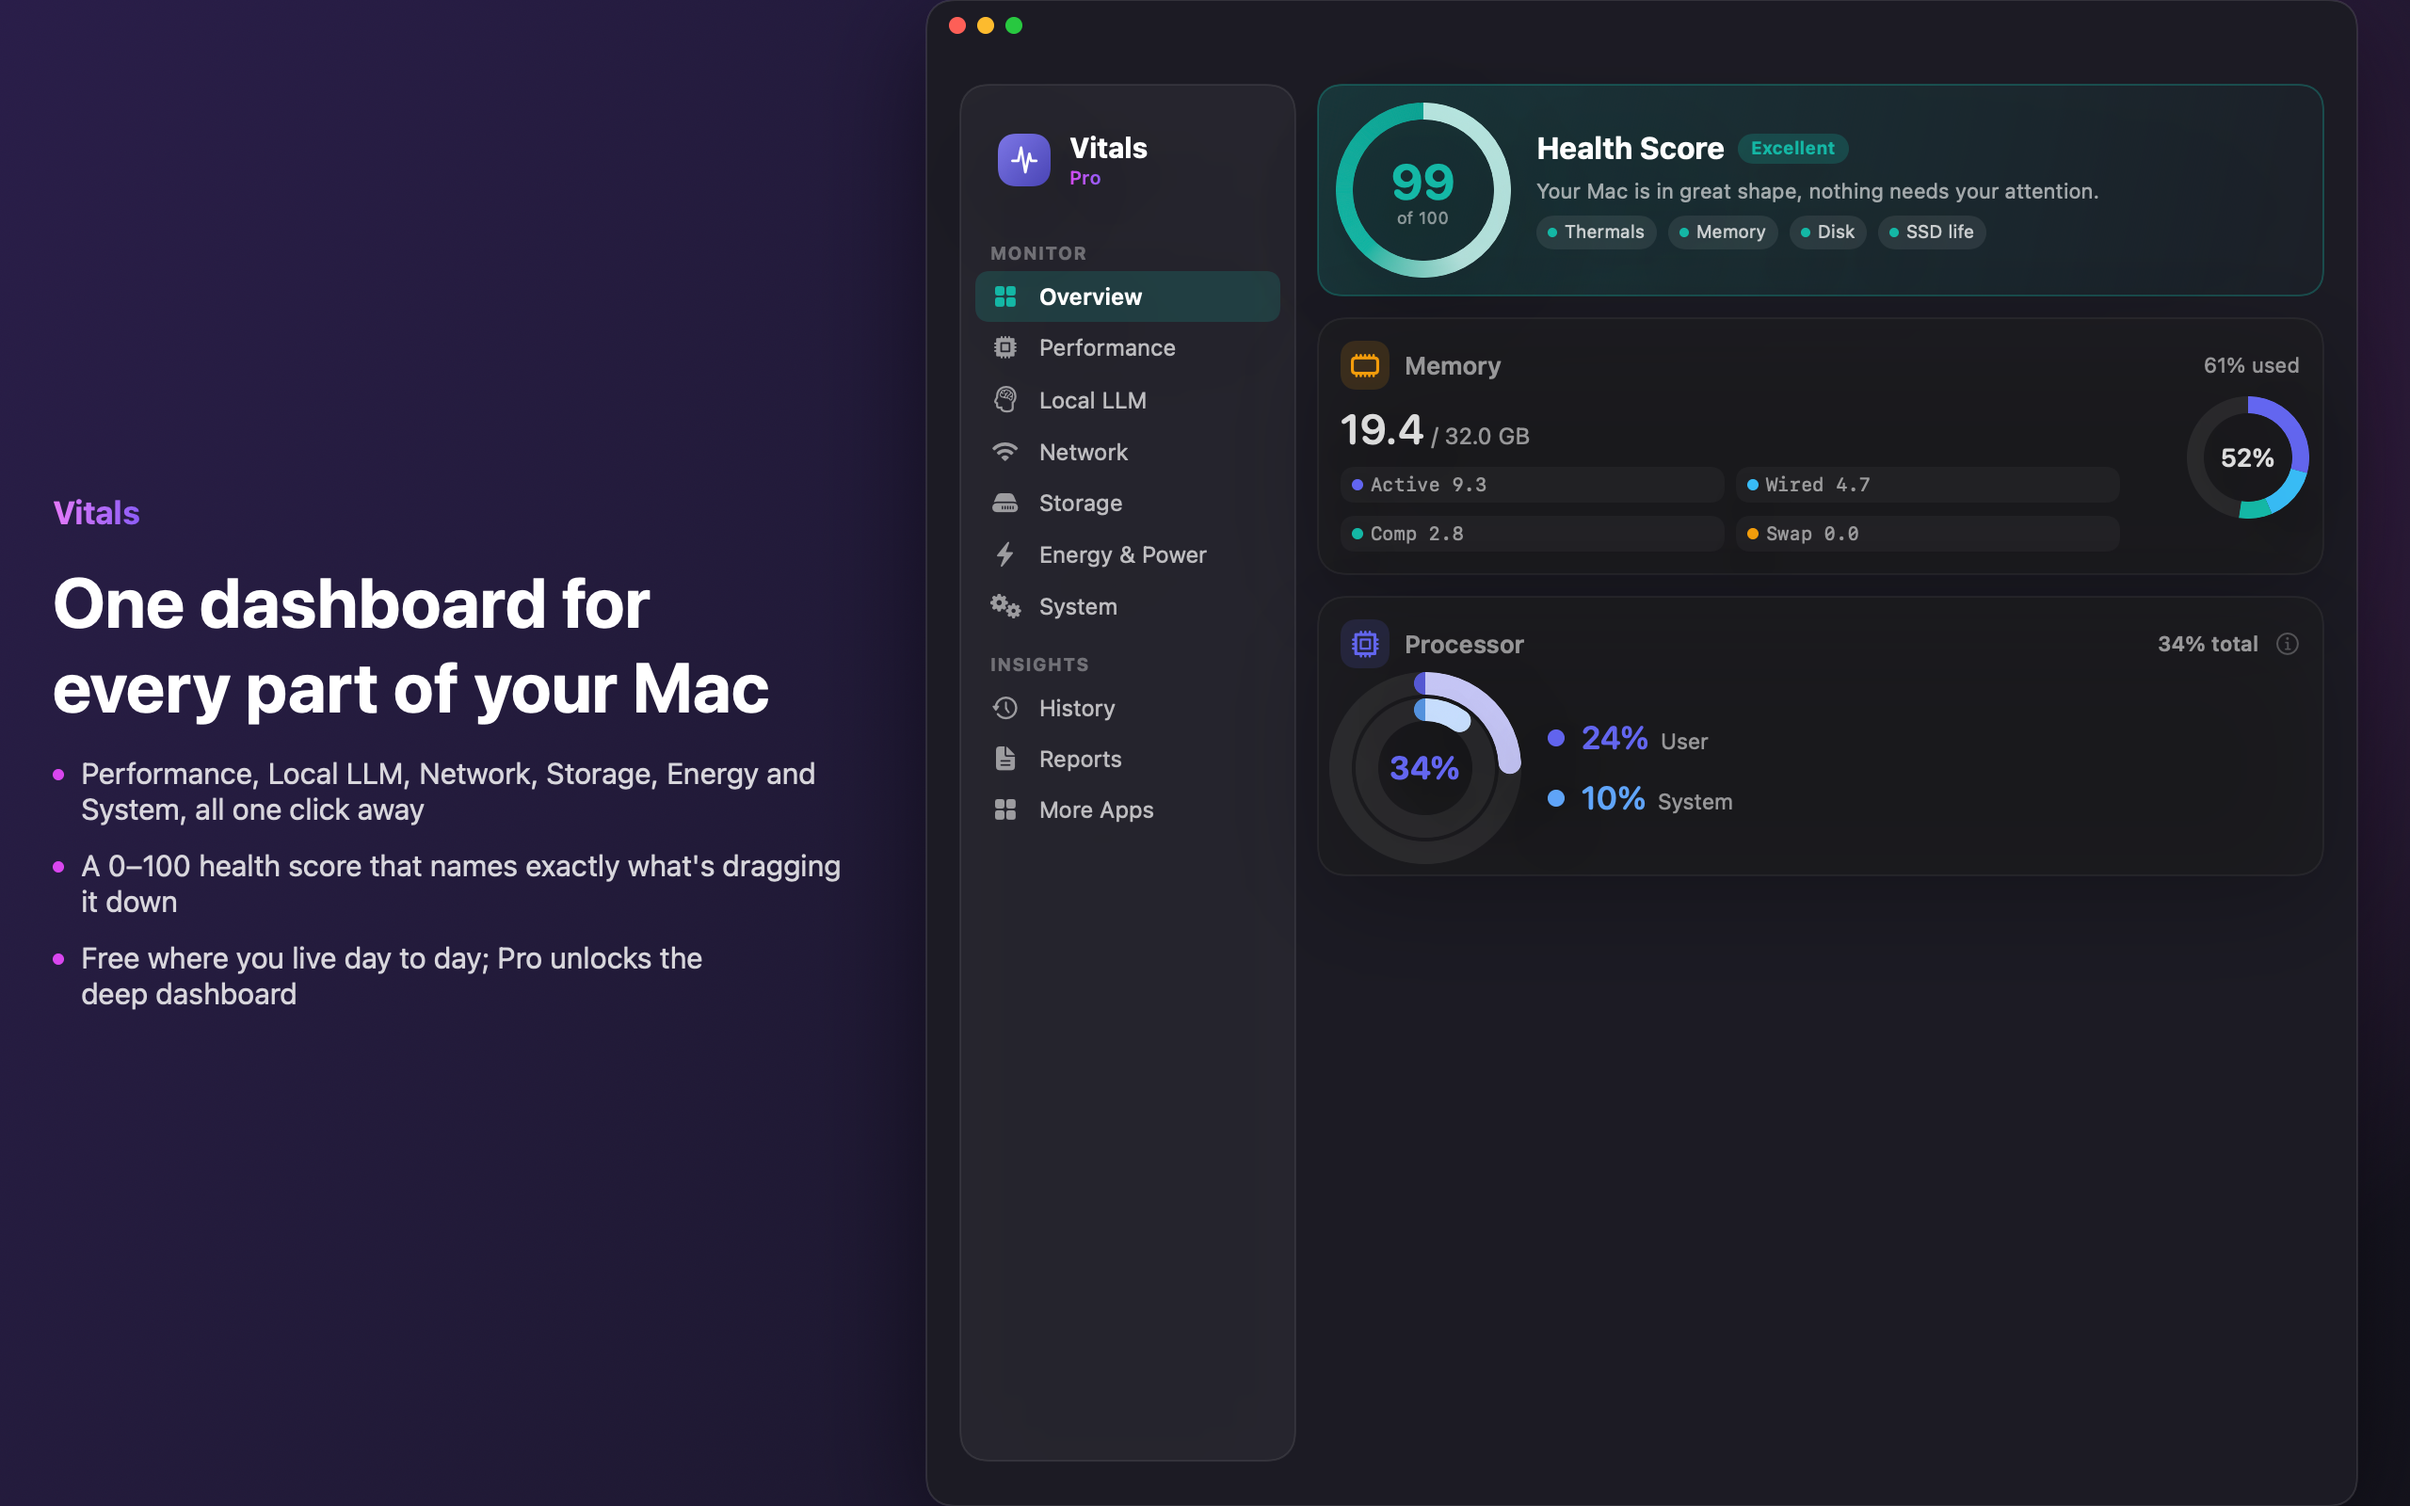
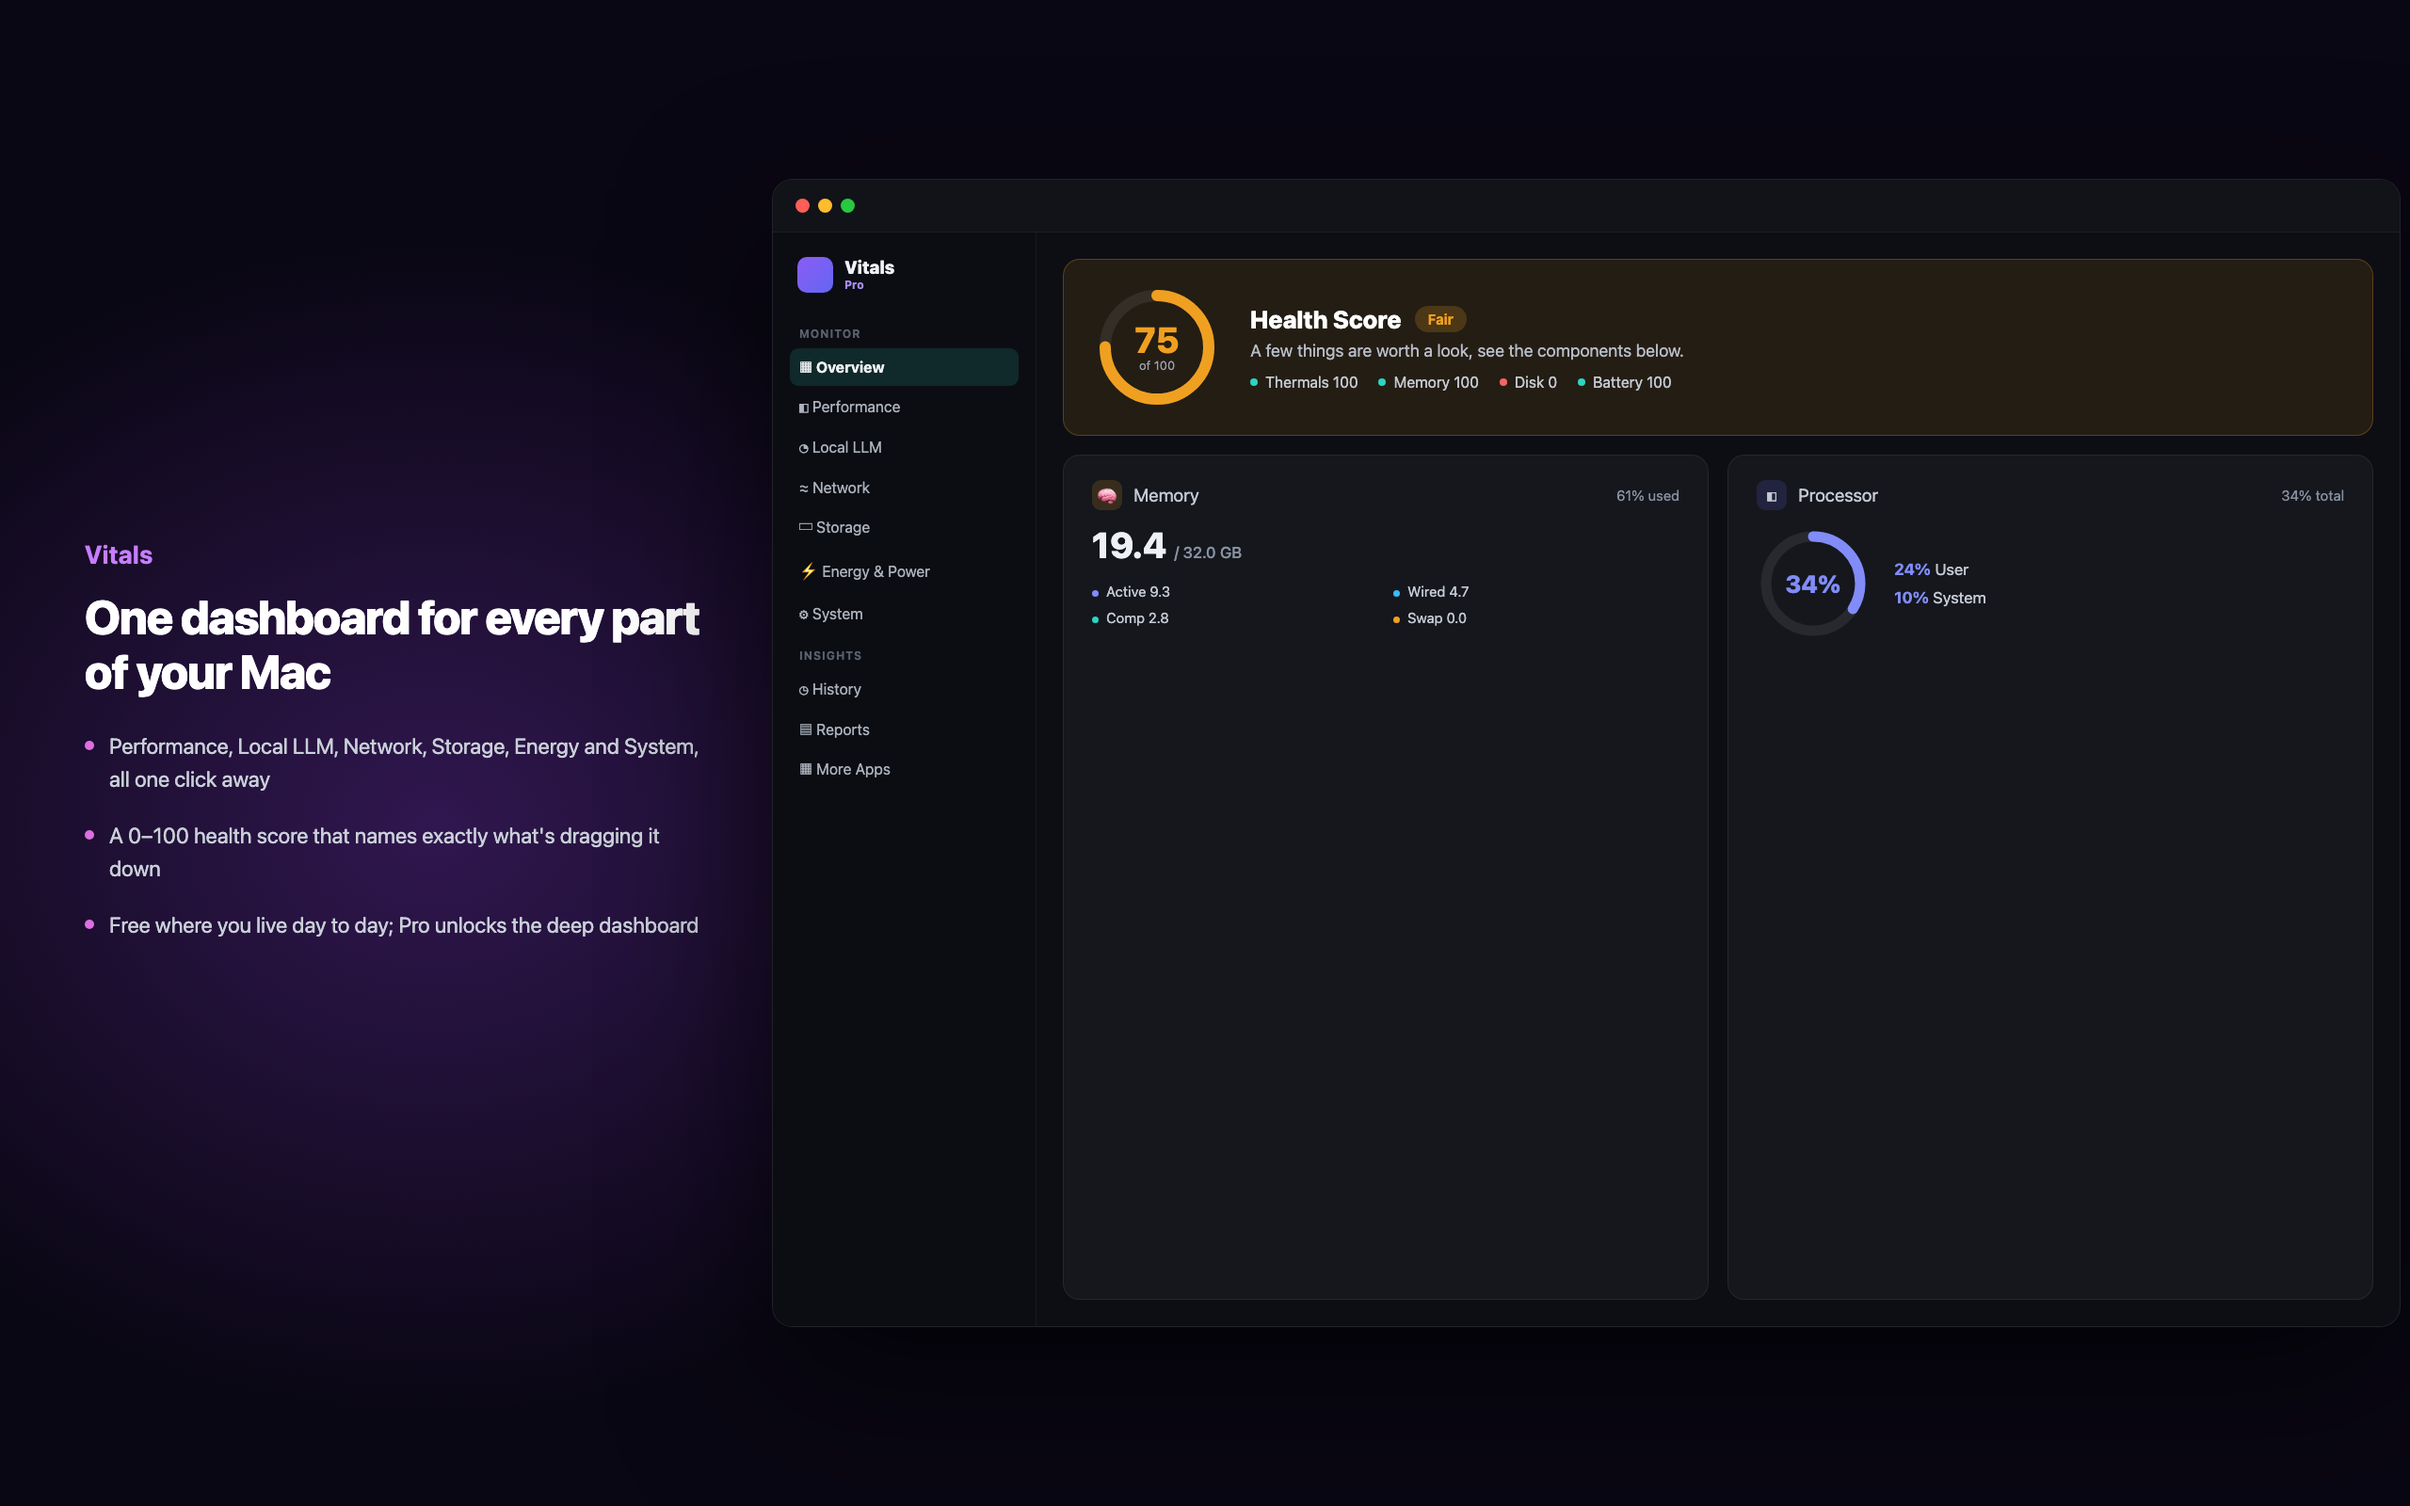
Add Battery Vampire to the Vitals page and fix health-score screenshots to show a real flagged component
The two Overview/health-score marketing shots showed a fake perfect 100/99
score with nothing flagged, which contradicted their own copy ("names
exactly what's dragging it down"). Replaced both with a Fair/75 score that
flags Disk, and added a Battery Vampire feature card + gallery shot, which
shipped in the app but was never represented on the site.

diff --git a/vitals/index.html b/vitals/index.html
@@ -234,6 +234,7 @@
         "30-day historical performance tracking",
         "S.M.A.R.T. disk health analysis",
         "Bluetooth and peripheral battery monitor",
+        "Battery vampire detector with one-tap Tame or Force Quit",
         "Crash and kernel panic watcher with plain-English insights",
         "Customizable desktop widget",
         "100% on-device private processing with zero telemetry"
@@ -674,6 +675,7 @@
         <div class="fcard"><div class="fico">💥</div><h3>Crash &amp; panic watch</h3><p>Surfaces app crashes and kernel panics with a plain-English explanation of what actually happened.</p></div>
         <div class="fcard"><div class="fico">🖥</div><h3>Live desktop widget</h3><p>A floating, always-on-top panel that updates every second — not on a slow schedule. Drag it anywhere, expand it to the full dashboard, or jump to the overview window in one click.</p></div>
         <div class="fcard"><div class="fico">🔋</div><h3>Bluetooth &amp; peripherals</h3><p>Battery level for your connected keyboard, mouse, trackpad and headphones, right alongside your Mac's own battery.</p></div>
+        <div class="fcard"><div class="fico">🧛</div><h3>Battery vampires</h3><p>On battery, catches a single app quietly pinning the CPU and draining your charge — then Tame (throttle) or Force Quit it in one tap, right from the alert.</p></div>
         <div class="fcard"><div class="fico">🔔</div><h3>Smart alerts</h3><p>Customizable threshold alerts, with an optional push to your iPhone the moment something needs attention.</p></div>
         <div class="fcard"><div class="fico">🎨</div><h3>Deep customization</h3><p>Twelve themes, full menu-bar layout control, and a live desktop widget that matches how you like to work.</p></div>
       </div>
@@ -711,6 +713,7 @@
         <figure><img src="../assets/shots/05-network.png" alt="Network tools"><figcaption>Network quality, Wi-Fi scan &amp; per-app traffic</figcaption></figure>
         <figure><img src="../assets/shots/06-history.png" alt="30-day history"><figcaption>30 days of every metric, charted</figcaption></figure>
         <figure><img src="../assets/shots/04-energy.png" alt="Energy and battery"><figcaption>Live power draw &amp; energy by app</figcaption></figure>
+        <figure><img src="../assets/shots/10-vampire.png" alt="Battery vampire detector"><figcaption>Catches the app quietly draining your battery</figcaption></figure>
         <figure><img src="../assets/shots/08-thermals.png" alt="Thermals and fans"><figcaption>Per-component temperatures &amp; fan control</figcaption></figure>
         <figure><img src="../assets/shots/09-themes.png" alt="Themes"><figcaption>Twelve themes to match your setup</figcaption></figure>
       </div>
